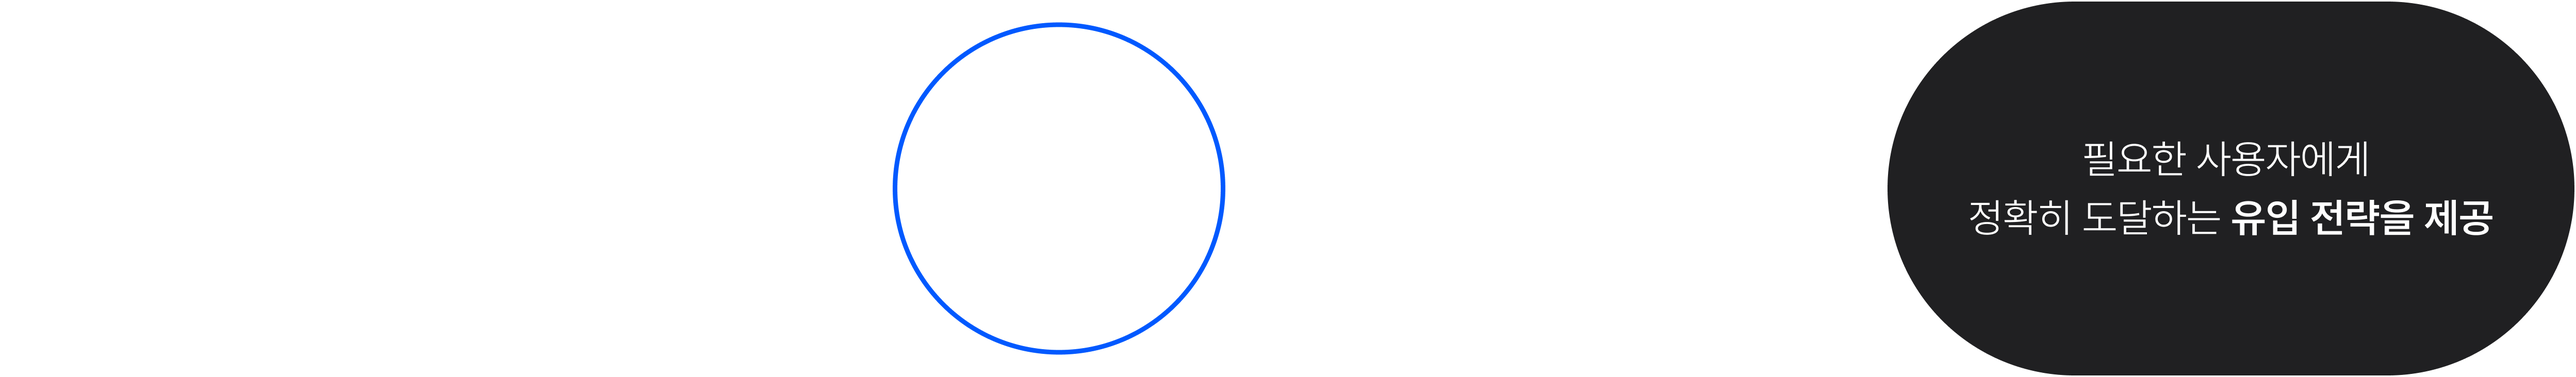
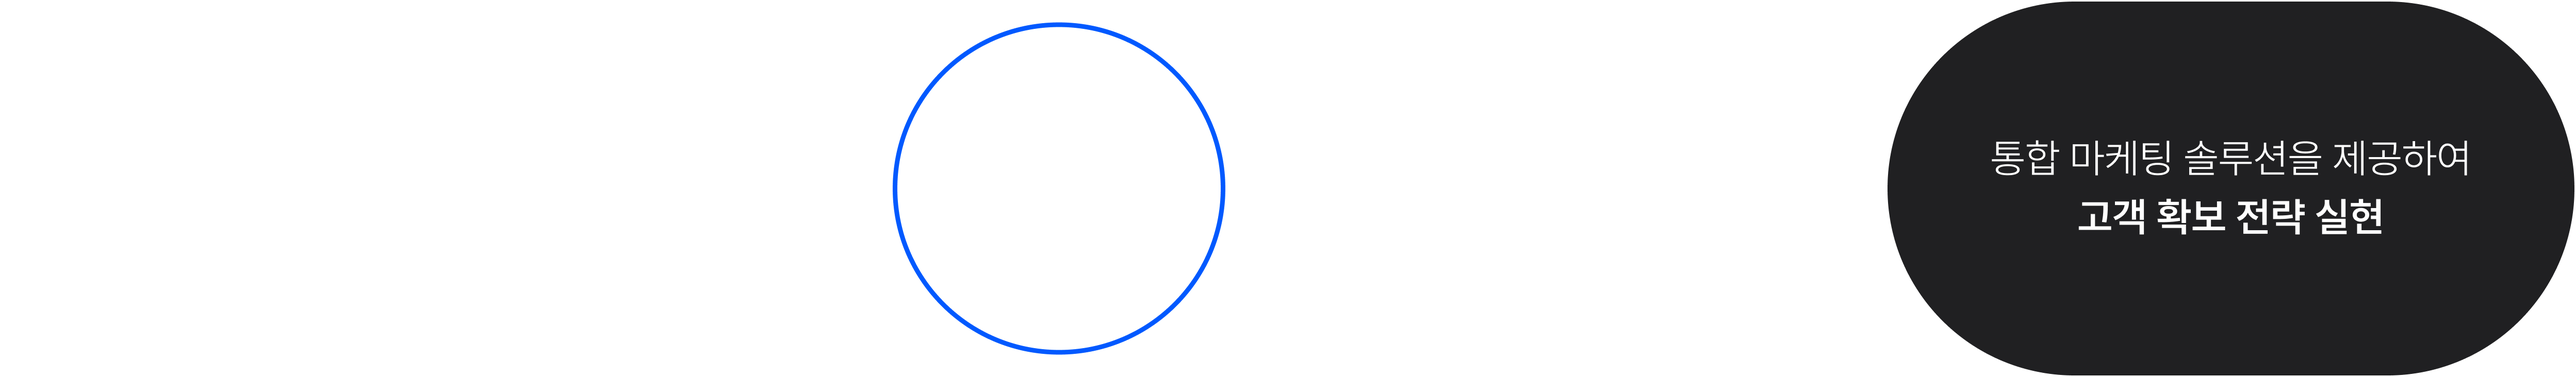
250908 발표자료

Changed region(s): [[0.7495, 0.5109, 0.9682, 0.6311], [0.7495, 0.3607, 0.9682, 0.4809]]

diff --git a/nextAdperson/css/main.css b/nextAdperson/css/main.css
@@ -139,8 +139,22 @@
 
 /* 섹션 5 6 7 */
 #section5, #section6, #section7{background: transparent;}
-#section5 .areaTeam, #section6 .areaTeam, #section7 .areaTeam{position: relative; width: 100%; height: auto; line-height: 105px; font-size: 70px; font-weight: 300; color: #FFF;}
-#section5 .areaTeam b, #section6 .areaTeam b, #section7 .areaTeam b{font-size: 80px; font-weight: 700; color: inherit;}
+#section5 .areaTeam, #section6 .areaTeam, #section7 .areaTeam{position: relative; width: 100%; height: auto;}
+#section5 .areaTeam .subTeam, #section6 .areaTeam .subTeam, #section7 .areaTeam .subTeam{line-height: 70px; margin-bottom: 5px; font-size: 70px; font-weight: 300; color: #FFF; overflow: hidden;}
+#section5 .areaTeam .mainTeam, #section6 .areaTeam .mainTeam, #section7 .areaTeam .mainTeam{line-height: 80px; font-size: 80px; font-weight: 600; color: #FFF; overflow: hidden;}
+#section5 .areaTeam span, #section6 .areaTeam span, #section7 .areaTeam span{display: inline-block; transform: translateY(100%);}
+#section5 .areaTeam span.wave, #section6 .areaTeam span.wave, #section7 .areaTeam span.wave{animation: reveal 1s cubic-bezier(0.77, 0, 0.175, 1) forwards;}
+
+
+@keyframes reveal {
+  0% {
+    transform: translateY(100%);
+  }
+  100% {
+    transform: translateY(0);
+  }
+}
+
 
 
 /* 섹션 8 */
@@ -153,19 +167,25 @@
 #section8.step1 .ulMember{transform:translateX(-1920px);}
 
 
-/* 섹션 9 18 */
-#section9, #section18{background-color: #000;}
-#section9 .bgSection9, #section18 .bgSection18{position: absolute; top: 0; right: 0; bottom: 0; left: 0;}
-#section9 .bgSection9 img, #section18 .bgSection18 img{width: 100%; height: 100%;}
-#section9 h3, #section18 h3{position: absolute; top: 160px; left: 190px; line-height: 30px; font-family: "Montserrat", sans-serif; font-size: 30px; font-weight: 500; color: #FFF;}
-#section9 .ulProcess, #section18 .ulProcess{position: relative; display: flex; flex-direction: row; flex-wrap: nowrap; justify-content: space-between; align-items: center; width: 1550px; margin: 50px auto 0 auto;}
-#section9 .liProcess, #section18 .liProcess{position: relative; display: flex; flex-direction: column; flex-wrap: nowrap; justify-content: center; align-items: center; width: 23%; height: 460px; padding: 80px 0 105px 0; border-radius: 50px; border: 1px solid rgba(255,255,255,0.4); box-sizing: border-box; color: #FFF; transition: all 0.6s;}
-#section9 .liProcess .number, #section18 .liProcess .number{margin-bottom: 60px; font-size: 22px; font-weight: 200; text-align: center; opacity: 0.8;}
-#section9 .liProcess .title, #section18 .liProcess .title{margin-bottom: 50px; font-size: 50px; font-weight: 600; text-align: center;}
-#section9 .liProcess .mainExplain, #section18 .liProcess .mainExplain{line-height: 38px; font-size: 28px;; font-weight: 400; text-align: center;}
-#section9 .liProcess .subExplain, #section18 .liProcess .subExplain{position: absolute; right: 0; bottom: 90px; left: 0; line-height: 160%; font-size: 22px; font-weight: 100; text-align: center; opacity: 0; transition: all 0.6s; transition-delay: 0.3s;}
-#section9 .liProcess.active, #section18 .liProcess.active{height: 600px; padding: 70px 0 240px 0; border-color: #0059FF; background-color: #0059FF;}
-#section9 .liProcess.active .subExplain, #section18 .liProcess.active .subExplain{opacity: 1;}
+/* 섹션 9  */
+#section9{background-color: #000;}
+#section9 .bgSection9{position: absolute; top: 0; right: 0; bottom: 0; left: 0;}
+#section9 .bgSection9 img{width: 100%; height: 100%;}
+#section9 h3{position: absolute; top: 160px; left: 190px; line-height: 30px; font-family: "Montserrat", sans-serif; font-size: 30px; font-weight: 500; color: #FFF;}
+#section9 .ulProcess{position: relative; display: flex; flex-direction: row; flex-wrap: nowrap; justify-content: space-between; align-items: center; width: 1550px; margin: 50px auto 0 auto;}
+#section9 .liProcess{position: relative; display: flex; flex-direction: column; flex-wrap: nowrap; justify-content: center; align-items: center; width: 23%; height: 460px; padding: 80px 0 105px 0; border-radius: 50px; border: 1px solid rgba(255,255,255,0.4); box-sizing: border-box; color: #FFF; opacity: 0; transition: all 0.6s;}
+#section9 .liProcess .number{margin-bottom: 60px; font-size: 22px; font-weight: 200; text-align: center; opacity: 0.8;}
+#section9 .liProcess .title{margin-bottom: 50px; font-size: 50px; font-weight: 600; text-align: center;}
+#section9 .liProcess .mainExplain{line-height: 38px; font-size: 28px;; font-weight: 400; text-align: center;}
+#section9 .liProcess .subExplain{position: absolute; right: 0; bottom: 90px; left: 0; line-height: 160%; font-size: 22px; font-weight: 100; text-align: center; opacity: 0; transition: all 0.6s; transition-delay: 0.3s;}
+#section9 .liProcess.active{height: 600px; padding: 70px 0 240px 0; border-color: #0059FF; background-color: #0059FF;}
+#section9 .liProcess.active .subExplain{opacity: 1;}
+
+#section9.step1 .liProcess:nth-of-type(1){opacity: 1;}
+#section9.step2 .liProcess:nth-of-type(2){opacity: 1;}
+#section9.step3 .liProcess:nth-of-type(3){opacity: 1;}
+#section9.step4 .liProcess:nth-of-type(4){opacity: 1;}
+
 
 
 /* 섹션 10 */
@@ -286,6 +306,9 @@
 
 
 /* 섹션 18 */
+#section18{background-color: #000;}
+#section18 .bgSection18{position: absolute; top: 0; right: 0; bottom: 0; left: 0;}
+#section18 .bgSection18 img{width: 100%; height: 100%;}
 #section18 .ulUIUX{position: relative; display: flex; flex-direction: column; flex-wrap: nowrap; justify-content: center; align-items: center;}
 #section18 .liUIUX{position: relative; line-height: 200px; font-family: Montserrat; color: #FFF; font-size: 200px; font-weight: 700;; letter-spacing: -4px;}
 #section18 .liUIUX .meaning{position: relative; display: inline-block; vertical-align: top; width: 0px; line-height: inherit; color: #83C3FF; font-size: inherit; font-weight: inherit; letter-spacing: inherit; opacity: 0.25; overflow: hidden; transition: width 0.6s;}
@@ -301,7 +324,7 @@
 #section19{background-color: #000;}
 #section19 .areaBestUIUX{position: relative; color: #FFF; margin: 0 190px 20px 190px; font-family: Montserrat; font-size: 80px; text-align: left; font-weight: 600; letter-spacing: -2px;}
 #section19 .areaNecessity{position: relative; width: 100%; overflow: hidden;}
-#section19 .ulNecessity{position: relative; left: 180px; width: max-content; white-space: nowrap; font-size: 0;}
+#section19 .ulNecessity{position: relative; left: 185px; width: max-content; white-space: nowrap; font-size: 0;}
 #section19 .liNecessity{position: relative; float: left; line-height: 100px; margin-right: 40px; color: #FFF; font-family: Montserrat; font-size: 100px; text-align: left; font-weight: 600; letter-spacing: -4px; opacity: 0.2; transition: opacity 0.6s;}
 #section19 .liNecessity.active{opacity: 1;}
 
@@ -310,8 +333,8 @@
 #section24{background-color: #000;}
 #section24 .titleWhy{position: relative; line-height: 60px; margin-bottom: 40px; color: #FFF; font-size: 50px;}
 #section24 .ulWhy{position: relative; display: flex; flex-direction: row; flex-wrap: nowrap; justify-content: space-between; align-items: flex-start; margin: 0 190px;}
-#section24 .liWhy{width: 760px; height: 0px; line-height: 36px; display: flex; flex-direction: column; flex-wrap: nowrap; justify-content: center; align-items: center; color: #FFF; border-radius: 15px; background: url("../img/bgWhy.png") no-repeat center center; background-size: cover; font-size: 26px; font-weight: 300; text-align: center; overflow: hidden; transition: height 0.6s;}
-#section24 .liWhy .pWhy{margin-bottom: 20px; color: inherit; font-size: 35px; font-weight: 500;} 
+#section24 .liWhy{width: 760px; height: 0px; line-height: 36px; display: flex; flex-direction: column; flex-wrap: nowrap; justify-content: center; align-items: center; color: rgba(255,255,255,0.6); border-radius: 15px; background: url("../img/bgWhy.png") no-repeat center center; background-size: cover; font-size: 26px; font-weight: 300; text-align: center; overflow: hidden; transition: height 0.6s;}
+#section24 .liWhy .pWhy{margin-bottom: 20px; color: #FFF; font-size: 35px; font-weight: 500;} 
 
 #section24.step1 .liWhy{height: 260px;}
 
@@ -334,10 +357,12 @@
 #section28, #section33, #section34{background-color: #000;}
 #section28 .bgSection28, #section33 .bgSection33, #section34 .bgSection34{position: absolute; top: 0; right: 0; bottom: 0; left: 0;}
 #section28 .bgSection28 video, #section33 .bgSection33 video, #section34 .bgSection34 video{width: 100%; height: 100%; object-fit: cover; opacity: 0.4;}
-#section28 .areaBreakTime, #section33 .areaQnA, #section34 .areaAward{position: relative;}
-#section28 .areaBreakTime .title, #section33 .areaQnA .title, #section34 .areaAward .title{line-height: 170px; font-family: Montserrat; font-size: 180px; font-weight: 700; letter-spacing: -4px; background: linear-gradient(108deg, #FFF 7%, #D5E8FF 100%); background-clip: text; -webkit-background-clip: text; -webkit-text-fill-color: transparent;}
+#section28 .areaBreakTime, #section33 .areaQnA, #section34 .areaToBegin{position: relative;}
+#section34 .areaToBegin{margin: 0 190px; text-align: left;}
+#section28 .areaBreakTime .title, #section33 .areaQnA .title{line-height: 170px; font-family: Montserrat; font-size: 180px; font-weight: 700; letter-spacing: -4px; background: linear-gradient(108deg, #FFF 7%, #D5E8FF 100%); background-clip: text; -webkit-background-clip: text; -webkit-text-fill-color: transparent;}
+#section34 .areaToBegin img{width: 762px; height: 376px;}
 #section33 .areaQnA .title small{font-size: 120px;}
-#section28 .areaBreakTime .subscript, #section33 .areaQnA .subscript, #section34 .areaAward .subscript{line-height: 26px; margin-top: 50px; color: rgba(255,255,255,0.4); font-size: 26px; font-weight: 400; letter-spacing: 0;}
+#section28 .areaBreakTime .subscript, #section33 .areaQnA .subscript{line-height: 26px; margin-top: 50px; color: rgba(255,255,255,0.4); font-size: 26px; font-weight: 400; letter-spacing: 0;}
 
 
 /* 섹션 29 */

diff --git a/nextAdperson/nextAdPerson.html b/nextAdperson/nextAdPerson.html
@@ -23,7 +23,7 @@
     <body>
         <ul class="background">
             <li class="bgSection1">
-                <video playsinline="" muted="" loop="" autoplay="" preload="auto">
+                <video playsinline="" mut ed="" loop="" autoplay="" preload="auto">
                     <source type="video/mp4" src="img/videoMain.mp4">
                 </video>
             </li>
@@ -229,20 +229,20 @@
             </div>
             <div class="section vertical-scrolling" id="section5">
                 <div class="areaTeam">
-                    기술과 경험을 완비한<br />
-                    <b>ONE TEAM 구성</b>
+                    <p class="subTeam">기술과 경험을 완비한</p>
+                    <p class="mainTeam">ONE TEAM 구성</p>
                 </div>
             </div>
             <div class="section vertical-scrolling" id="section6">
                 <div class="areaTeam">
-                    트렌드를 분석하여<br />
-                    <b>비즈니스를 개발하는 TEAM</b>
+                    <p class="subTeam">트렌드를 분석하여</p>
+                    <p class="mainTeam">비즈니스를 개발하는 TEAM</p>
                 </div>
             </div>
             <div class="section vertical-scrolling" id="section7">
                 <div class="areaTeam">
-                    유지보수까지 책임지는<br />
-                    <b>전략적 파트너</b>
+                    <p class="subTeam">유지보수까지 책임지는</p>
+                    <p class="mainTeam">전략적 파트너</p>
                 </div>
             </div>
             <div class="section vertical-scrolling" id="section8">
@@ -582,7 +582,7 @@
                 </div>
             </div>
             <div class="section vertical-scrolling" id="section33">
-                <div class="bgSection29">
+                <div class="bgSection33">
                     <video playsinline="" muted="" loop="" autoplay="" preload="auto">
                         <source type="video/mp4" src="img/videoQnA.mp4">
                     </video>
@@ -593,14 +593,13 @@
                 </div>
             </div>
             <div class="section vertical-scrolling" id="section34">
-                <div class="bgSection30">
+                <div class="bgSection34">
                     <video playsinline="" muted="" loop="" autoplay="" preload="auto">
                         <source type="video/mp4" src="img/videoAward.mp4">
                     </video>
                 </div>
-                <div class="areaAward">
-                    <div class="title">AWARD</div>
-                    <div class="subscript">심사 및 우수팀 수상</div>
+                <div class="areaToBegin">
+                    <img src="img/textToBegin.png" />
                 </div>
             </div>
         </div>

diff --git a/nextAdperson/js/main.js b/nextAdperson/js/main.js
@@ -1,4 +1,25 @@
 $(document).ready(function() {
+
+	$(function(){
+		const waves = document.querySelectorAll(".areaTeam p");
+
+		waves.forEach((wave) => {
+			let delayIdx = 0;
+
+			wave.innerHTML = wave.textContent
+			.split("")
+			.map((letter) => {
+				if (letter === " ") {
+				return " "; // span 만들지 않고 그냥 공백 반환
+				}
+				// 공백이 아닌 경우에만 delayIdx를 쓰고 증가
+				return `<span style="animation-delay:${delayIdx++ * 20}ms">${letter}</span>`;
+			})
+			.join("");
+		});
+	});
+
+
 	$('#fullpage').fullpage({
 		sectionSelector: '.vertical-scrolling',
 		navigation: true,
@@ -81,6 +102,33 @@ $(document).ready(function() {
 				//배경동영상 교체
 				$(".background li").addClass("hidden");
 				$(".background li").eq(1).removeClass("hidden");
+			}
+			// #sectoin5에 왔을 때 step 애니메이션 실행
+			if(index == 5){
+				$("#section5 .areaTeam p span").addClass("wave");
+			}
+			// #sectoin5에 왔을 때 step 애니메이션 실행
+			if(index == 6){
+				$("#section6 .areaTeam p span").addClass("wave");
+			}
+			// #sectoin5에 왔을 때 step 애니메이션 실행
+			if(index == 7){
+				$("#section7 .areaTeam p span").addClass("wave");
+			}
+			// #sectoin9에 왔을 때 step 애니메이션 실행
+			if(index == 9){
+                setTimeout(function() {
+					$("#section9").addClass("step1");
+				}, 0);
+                setTimeout(function() {
+					$("#section9").addClass("step2");
+				}, 300);
+                setTimeout(function() {
+					$("#section9").addClass("step3");
+				}, 600);
+                setTimeout(function() {
+					$("#section9").addClass("step4");
+				}, 900);
 			}
 			// #sectoin10에 왔을 때 step 애니메이션 실행
 			if(index == 10){
@@ -170,6 +218,18 @@ $(document).ready(function() {
 			// #section5를 떠날 때 #section4 애니메이션 클래스를 제거
 			if(index === 5) {
 				$("#section4").removeClass("step1 step2 step3 step4 step5 step6 step7 step8 step9 step10 step11 step12");
+			}
+			// #section6를 떠날 때 #section5 애니메이션 클래스를 제거
+			if(index === 6) {
+				$("#section5 .areaTeam p span").removeClass("wave");
+			}
+			// #section7를 떠날 때 #section6 애니메이션 클래스를 제거
+			if(index === 7) {
+				$("#section6 .areaTeam p span").removeClass("wave");
+			}
+			// #section8를 떠날 때 #section7 애니메이션 클래스를 제거
+			if(index === 8) {
+				$("#section7 .areaTeam p span").removeClass("wave");
 			}
 			// #section9를 떠날 때 #section8 애니메이션 클래스를 제거
 			if(index === 9) {
@@ -353,6 +413,8 @@ $(document).ready(function() {
 			}
 		}
 	});
+
+
 
 
 	// $(function(){
